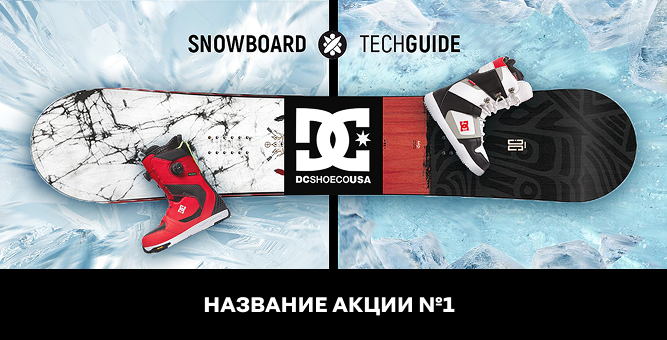
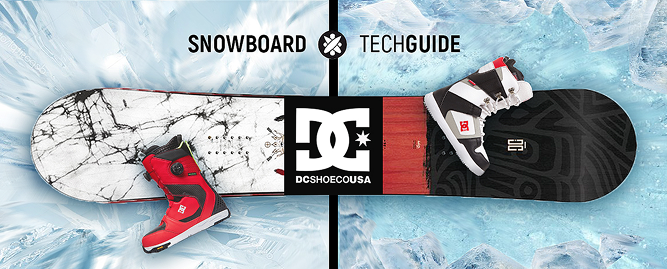
site commit xz

diff --git a/style.css b/style.css
@@ -263,6 +263,8 @@ p{
 
 h3 {
     margin: 0;
+    font-size: 20px;
+    font-weight: 400;
 }
 
 .slider {
@@ -546,7 +548,7 @@ h3 {
 }
 
 .textcard2 {
-    font-size: 16px;
+    font-size: 14px;
     color: #6d6d6d;
 }
 
@@ -613,10 +615,15 @@ h3 {
 
 h1 {
     margin: 0;
+    margin-top: 20px;
 }
 
 .htext {
     margin-top: 40px;
+}
+
+h2 {
+    font-weight: 400;
 }
 
 .but {
@@ -634,4 +641,214 @@ h1 {
 
 .awh {
     color: #ffffff;
+}
+
+.snwdiv {
+    width: fit-content;
+    height: fit-content;
+    display: block;
+}
+
+.boardtext {
+    width: 100%;
+    height: fit-content;
+    display: inline-block;
+    text-align: center;
+    align-items: center;
+    background-color: #000000;
+    padding-top: 10px;
+    padding-bottom: 10px;
+    color: #ffffff;
+    font-size: 24px;
+    margin: 0;
+    position: relative;
+    bottom: 50px;
+    box-sizing: border-box;
+}
+
+.snwdivlong {
+    width: 100%;
+    height: 370px;
+    grid-column: span 2;
+    background-image: url(post3.png);
+    background-size: cover;
+    background-position: center;
+    background-repeat: no-repeat;
+}
+
+.sowlong {
+    width: 100%;
+    height: fit-content;
+    display: grid;
+    grid-template-columns: repeat(2, 1fr);
+    column-gap: 20px;
+    padding-left: 10%;
+    padding-right: 10%;
+    margin-top: 60px;
+    box-sizing: border-box;
+}
+
+h3 {
+    font-size: 24px;
+    text-align: center;
+}
+
+.textcont {
+    width: 100%;
+    height: fit-content;
+    display: flex;
+    flex-direction: column;
+    gap: 10px;
+    align-items: center;
+    padding-left: 10%;
+    padding-right: 10%;
+    margin-bottom: 40px;
+    box-sizing: border-box;
+}
+
+.textcard3l {
+    max-width: 920px;
+    font-size: 20px;
+    color: #000000;
+    text-align: center;
+}
+
+.imgcomp {
+    width: 40px;
+    height: 40px;
+    object-fit: contain;
+    filter: invert(1);
+    position: relative;
+    left: 20px;
+    bottom: 820%;
+    opacity: 0.6;
+}
+
+@media (min-width: 1750px) {
+    .snwdivlong {
+        height: 450px;
+    }
+    .imgcomp {
+        bottom: 1070%;
+    }
+}
+
+@media (min-width: 900px) and (max-width: 1750px) {
+    .snwdivlong {
+        height: 350px;
+    }
+}
+
+@media (min-width: 800px) and (max-width:900px) {
+    .snwdivlong {
+        height: 350px;
+    }
+}
+
+@media (min-width: 700px) and (max-width: 800px) {
+    .snwdivlong {
+        height: 300px;
+    }
+    .imgcomp {
+        bottom: 700%;
+    }
+}
+
+@media (min-width: 550px) and (max-width: 700px) {
+    .snwdivlong {
+        height: 250px;
+    }
+    .imgcomp {
+        bottom: 590%;
+    }
+}
+
+@media (min-width: 430px) and (max-width: 550px) {
+    .snwdivlong {
+        height: 200px;
+    }
+    .imgcomp {
+        bottom: 600%;
+        width: 30px;
+        height: 30px;
+    }
+}
+
+@media (max-width: 430px) {
+    .snwdivlong {
+        height: 150px;
+    }
+    .imgcomp {
+        bottom: 450%;
+        width: 30px;
+        height: 30px;
+    }
+}
+
+.alltext {
+    width: 50%;
+    height: fit-content;
+    display: flex;
+    flex-direction: column;
+    padding: 40px;
+    gap: 20px;
+    color: #ffffff;
+    box-sizing: border-box;
+}
+
+.sl1 {
+    width: 100%;
+    height: 500px;
+    background-color: #000000;
+    display: flex;
+    margin-top: 80px;
+}
+
+.wt {
+    width: 100%;
+    display: flex;
+    justify-content: space-between;
+    align-items: center;
+}
+
+.h3b {
+    font-weight: 700;
+}
+
+.aw {
+    color: #6d6d6d;
+}
+
+.photo {
+    width: 50%;
+    height: 100%;
+    background-image: url(post4.png);
+    background-size: cover;
+    background-repeat: no-repeat;
+    background-position: center;
+    display: block;
+    align-items: center;
+}
+
+.play {
+    width: 70px;
+    height: 80px;
+    position: relative;
+    object-fit: contain;
+    left: 45%;
+    top: 42%;
+}
+
+@media (max-width:900px) {
+    .sl1 {
+        flex-direction: column;
+        height: fit-content;
+    }
+    .photo {
+        width: 100%;
+        height: 400px;
+    }
+    .alltext {
+        width: 100%;
+    }
 }

diff --git a/index.html b/index.html
@@ -105,8 +105,14 @@
     </div>
 
     <div class="sow">
-        <img src="post1.png" class="snw">
-        <img src="post2.png" class="snw">
+        <div class="snwdiv">
+            <img src="post1.png" class="snw">
+            <h1 class="boardtext">АКЦИЯ №1</h1>
+        </div>
+        <div class="snwdiv">
+            <img src="post2.png" class="snw">
+            <h1 class="boardtext">АКЦИЯ №2</h1>
+        </div>
     </div>
 
     <h1 class="htext">НОВИНКИ</h1>
@@ -153,6 +159,76 @@
         <a href="#" class="awh">Показать Больше ></a>
     </div>
 
+    <div class="sowlong">
+        <div class="snwdivlong"></div>
+        <img src="comp3.png" class="imgcomp">
+    </div>
+
+    <div class="textcont">
+        <h3 class="h3b">Название Акции</h3>
+        <p class="textcard3l">Меня не спрашивали, а надо было спросить, что означает имя Заратустры именно в моих устах — в устах первого имморалиста: ведь то, в чём состоит неслыханная уникальность этого перса в истории, являет собою противоположность как раз этому. </p>
+    </div>
+
+    <h1 class="htext">DC Shoes популярное в коллекции</h1>
+
+    <div class="sellcont">
+        <div class="sellcard">
+            <div class="imcont"></div>
+            <div class="textcard">
+                <p class="textcard1">LIB TECH</p>
+                <p class="textcard2">Мужской Сноуборд</p>
+                <p class="textcard3">89.000тг</p>
+            </div>
+        </div>
+
+        <div class="sellcard">
+            <div class="imcont"></div>
+            <div class="textcard">
+                <p class="textcard1">LIB TECH</p>
+                <p class="textcard2">Мужской Сноуборд</p>
+                <p class="textcard3">89.000тг</p>
+            </div>
+        </div>
+
+        <div class="sellcard">
+            <div class="imcont"></div>
+            <div class="textcard">
+                <p class="textcard1">LIB TECH</p>
+                <p class="textcard2">Мужской Сноуборд</p>
+                <p class="textcard3">89.000тг</p>
+            </div>
+        </div>
+
+        <div class="sellcard">
+            <div class="imcont"></div>
+            <div class="textcard">
+                <p class="textcard1">LIB TECH</p>
+                <p class="textcard2">Мужской Сноуборд</p>
+                <p class="textcard3">89.000тг</p>
+            </div>
+        </div>
+    </div>
+
+    <div class="but">
+        <a href="#" class="awh">Показать Больше ></a>
+    </div>
+
+    <div class="sl1">
+        <div class="photo"><img src="play.png" class="play"></div>
+
+        <div class="alltext">
+            <div class="wt">
+                <p>Блоги</p>
+                <p>Все блоги</p>
+            </div>
+
+            <h1>Очень преочень длинное название блога</h1>
+            <p>Меня не спрашивали, а надо было спросить, что означает имя Заратустры именно в моих устах — в устах первого имморалиста: ведь то, в чём состоит неслыханная уникальность этого перса в истории, являет собою противоположность как раз этому. </p>
+            <a href="#" class="aw"><Читать продолжение></a>
+        </div>
+    </div>
+
+    
 
 
 
